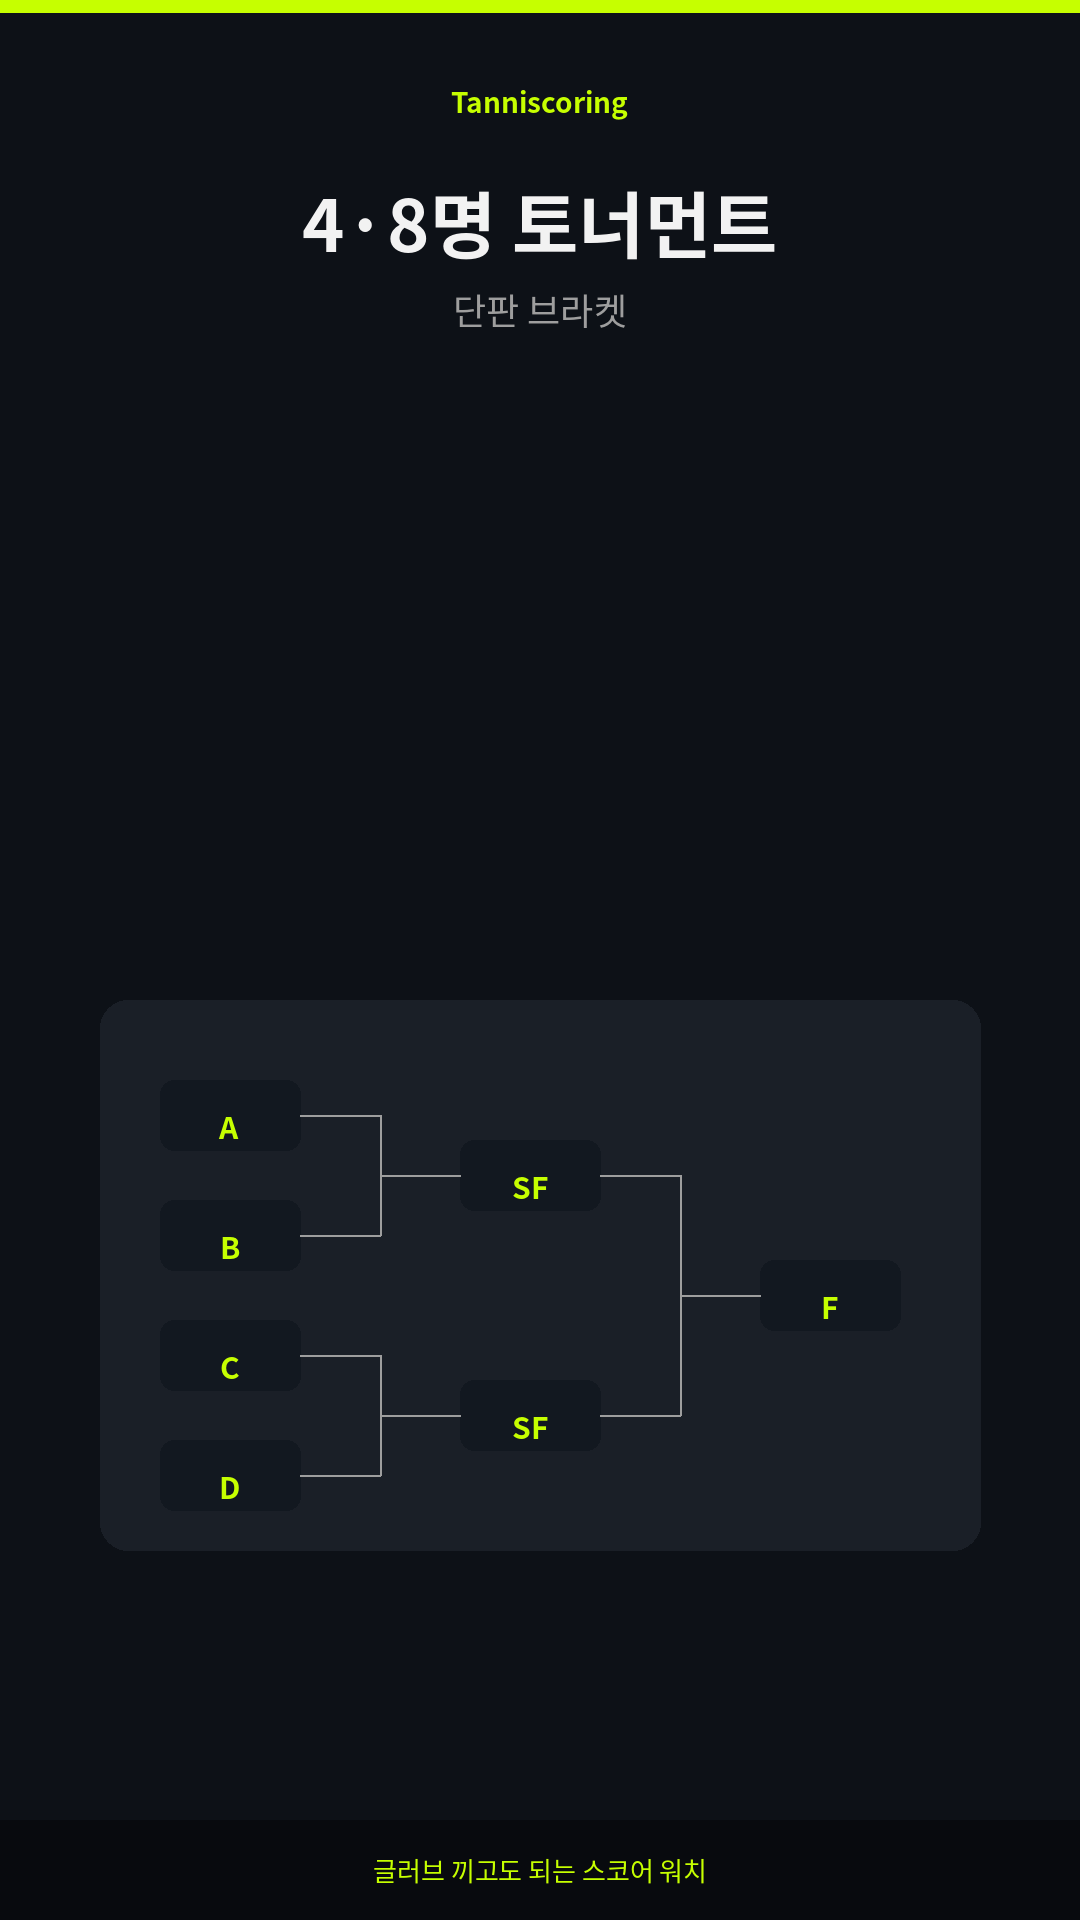
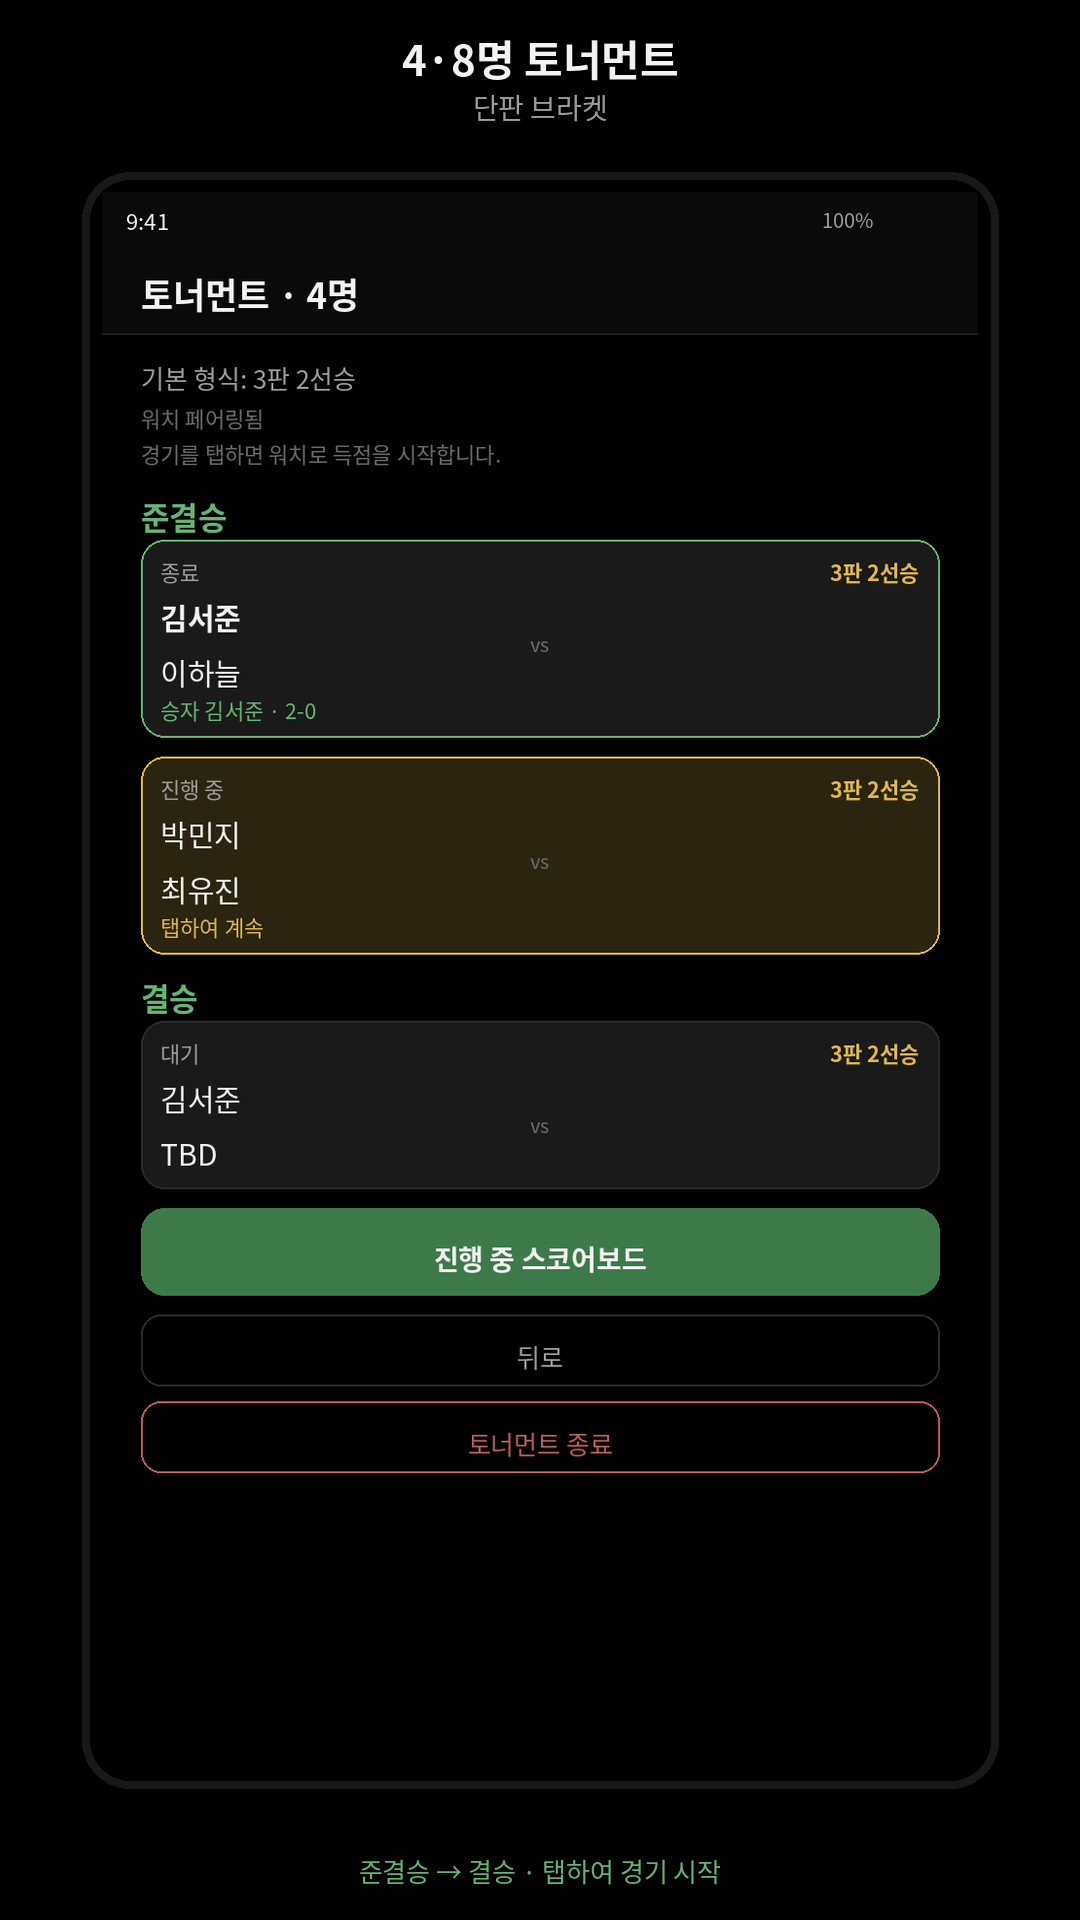
Rebuild v153 Play screenshots to match real Compose OLED UI.
Replace abstract charcoal/lime marketing frames with faithful phone/wear
mocks (CourtColors, KO chrome from values-ko), refresh feature graphic,
and add adaptive icon-preview.png. Emulator unavailable — Pillow mocks.

diff --git a/docs/store-screenshots/v153/README.md b/docs/store-screenshots/v153/README.md
@@ -1,17 +1,22 @@
 # Play Store screenshots — Tanniscoring 1.5.3
 
-Phone intro screenshots (portrait), premium dark charcoal (`#0D1117`) + lime (`#C6FF00`), large Korean captions.
+Phone intro screenshots (portrait **1080×1920**). Inner frames mimic the **real Compose OLED UI** (`CourtColors` / `WearCourtColors`: true black, soft court green `#64B574`, serve gold `#E0B84A`) with Korean chrome from `values-ko`.
+
+> Regenerated as faithful Compose mocks (Pillow) — no Android emulator on the build machine. Not neon lime marketing art.
 
 ## Order (upload in this sequence)
 
-| # | File | Caption (on image) |
-|---|------|--------------------|
-| 1 | `01-hero.png` (1080×1920) | 글러브 끼고도 되는 스코어 워치 / 탭 = 득점 · 길게 = 취소 |
-| 2 | `02-phone-watch.png` | 폰은 전광판, 워치는 채점 / 실시간 동기화 · 노애드 |
-| 3 | `03-sports.png` | 테니스 / 배드민턴 한 앱 / 종목 선택 · KR / EN |
-| 4 | `04-tournament.png` | 4·8명 토너먼트 / 단판 브라켓 |
+| # | File | Caption (outside phone) | Inner screen |
+|---|------|-------------------------|--------------|
+| 1 | `01-hero.png` | 글러브 끼고도 되는 스코어 워치 / 탭 = 득점 · 길게 = 취소 | Wear tennis score squares (`선수 A/B`, 노애드, 서브) |
+| 2 | `02-phone-watch.png` | 폰은 전광판, 워치는 채점 / 실시간 동기화 · 노애드 | Phone tennis portrait scoreboard (`A 득점` / `B 득점`, 되돌리기…) |
+| 3 | `03-sports.png` | 테니스 / 배드민턴 한 앱 / 종목 선택 · KR / EN | `SportPickerScreen` (`종목 선택`, 테니스, 배드민턴, 언어 변경, 설정) |
+| 4 | `04-tournament.png` | 4·8명 토너먼트 / 단판 브라켓 | `TournamentBracketScreen` (준결승·결승 cards) |
 
-Optional feature graphic: `feature-graphic.png` (1024×500).
+Also:
+
+- `feature-graphic.png` (1024×500) — listing banner, same OLED palette + watch mock
+- `icon-preview.png` (512×512) — raster of adaptive foreground (lime tennis + shuttle) on `#0D1117` background
 
 ## Suggested Play listing (KO)
 
@@ -32,3 +37,8 @@ Optional feature graphic: `feature-graphic.png` (1024×500).
 광고 SDK·분석 SDK 없음. 문의: soltlove0885@gmail.com
 
 버전 1.5.3 (phone vc33 / wear vc34)
+
+## Notes
+
+- Do **not** upload these via this repo automation; upload manually in Play Console if needed.
+- Colors follow `app/.../ui/Theme.kt` and `wear/.../ui/WearTheme.kt`, not the launcher lime accent.
